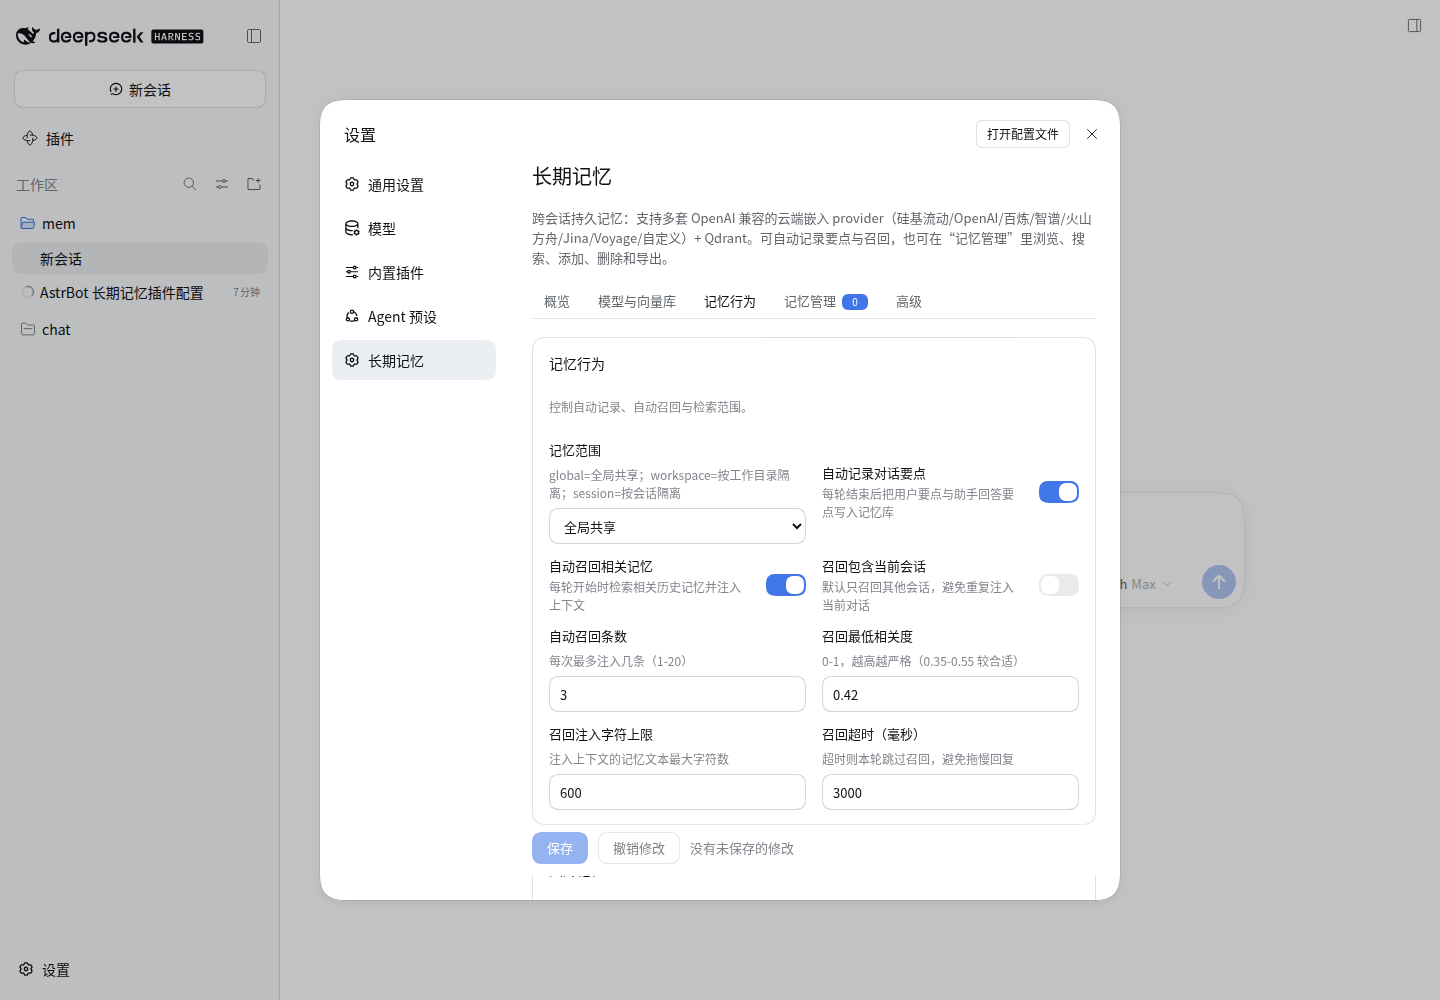
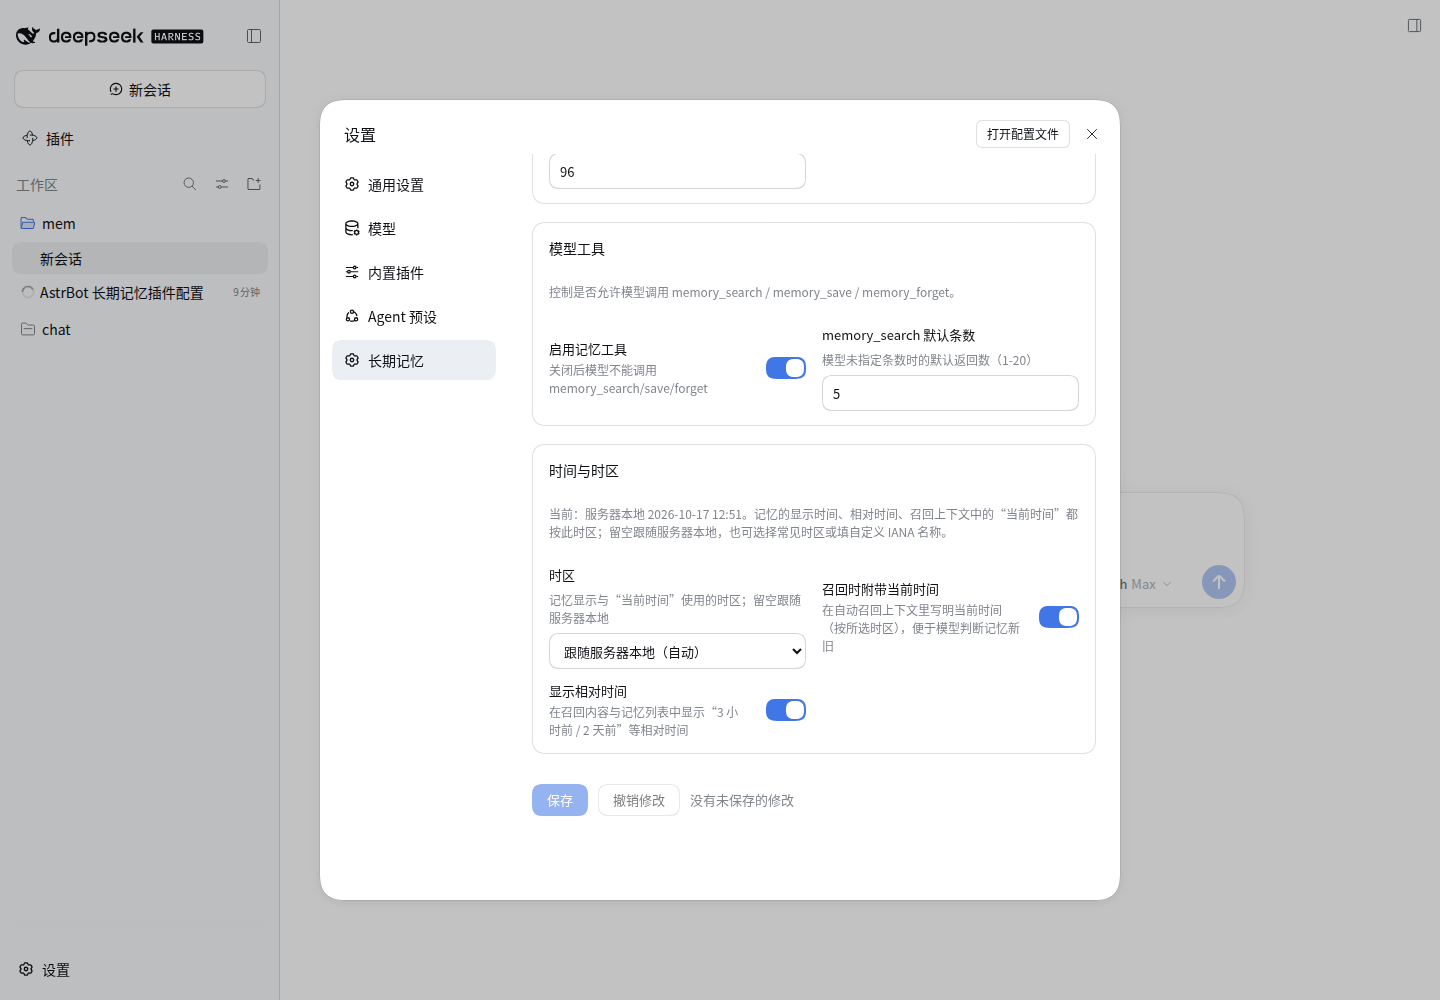
docs: 补充时间与时区设置截图

Changed region(s): [[0.3438, 0.341, 0.75, 0.868], [0.375, 0.155, 0.75, 0.403]]

diff --git a/README.md b/README.md
@@ -87,6 +87,8 @@ dsh plugin --profile web add /absolute/path/to/dsh-memory
 | 召回时附带当前时间 | 开 | 自动召回时在上下文里写明当前时间（含时区），便于模型判断记忆新旧 |
 | 显示相对时间 | 开 | 在召回内容与记忆列表中显示“3 小时前 / 2 天前” |
 
+![时间与时区](docs/screenshots/time-timezone.png)
+
 ### 记忆管理
 记忆列表（语义搜索/时间筛选/分页/删除）、手动添加、导出 JSON、定期维护与保留策略、重建集合。
 
